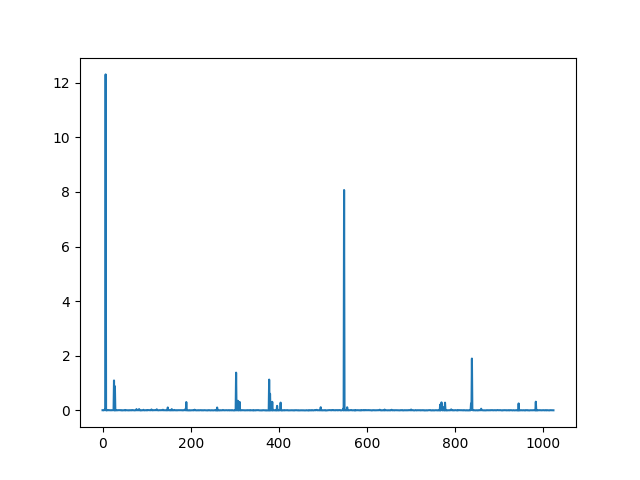
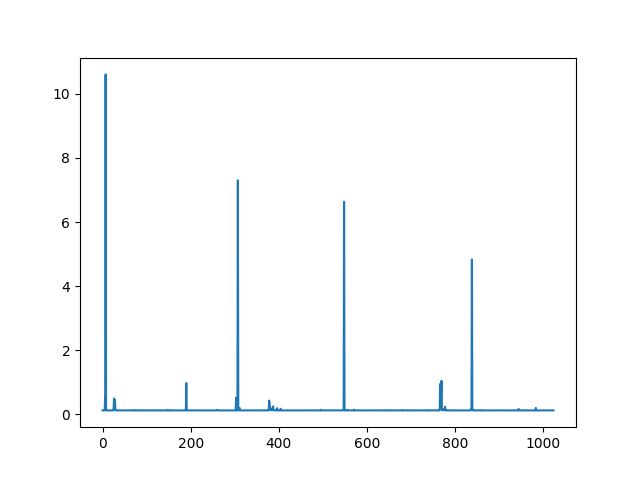
Preparing for indiv dp

diff --git a/ensemble.py b/ensemble.py
@@ -28,7 +28,7 @@ class Ensemble():
         self.instance_priv_loss = [0 for _ in range(self.num_ensemble // 2)]
         self.personalized_priv_loss = [[] for _ in range(self.num_ensemble // 2)]
         self.pairings = [(i, i+1) for i in range(0, self.num_ensemble, 2)]
-        self.target = target_mult * self.eps 
+        self.target = self.eps / self.q_budget
         self.lambda_history = []
 
         self.lora_ensemble = 0 
@@ -71,76 +71,52 @@ class Ensemble():
         N = len(mixed_dist) 
         for i, mix_dist in enumerate(mixed_dist):
             lambd_i = np.mean(self.lambdas[:i] + self.lambdas[i+1:]).item()
-            q = (p - mix_dist) * N / (N - 1)
+            q = (p - mix_dist) * N / (lambd * (N - 1)) * lambd_i
             r = p + (1 - lambd) * pub_pred
-            q = q / lambd 
-            q += pub_pred
+            q += (1 - lambd) * pub_pred
             self.instance_priv_loss[i] += max(Ensemble.renyiDiv(r, q, self.alpha),
                                               Ensemble.renyiDiv(q, r, self.alpha)
                                               )
 
-    def calc_indiv_priv_loss(self, p, mixed_dist, lambd, pub_pred, active_set):
+    def calc_indiv_priv_loss(self, p, mixed_dist, pub_pred):
         losses = []
         N = len(mixed_dist)
         for i, mix_dist in enumerate(mixed_dist):
-            lambd_i = np.mean(self.lambdas[:i] + self.lambdas[i+1:]).item()
-            val, ind = torch.max(mix_dist, 0)
-            '''
-            loss = (torch.log(1 + lambd * output[i][ind] /
-                                                        (self.num_ensemble *
-                                                        pub_pred[ind])
-                                                        )
-                                              )
-            if loss > 1:
-                print(f"Model {i}: {loss:.2f}")
-            self.personalized_priv_loss[i] += loss
-            '''
-            r = mix_dist + (1 - lambd) * pub_pred
-            q = copy.deepcopy((1 - lambd_i) * pub_pred)
-            r[ind] += (N-1) / N * lambd 
-            q[ind] += lambd_i
-            loss = max(Ensemble.renyiDiv(r, q, self.alpha).cpu(),
-                       Ensemble.renyiDiv(q, r, self.alpha).cpu()
-            )
-            self.personalized_priv_loss[i].append(loss)
+            loss = torch.log(torch.sum((1 + mix_dist/((N - 1)
+                                                      * pub_pred))**self.alpha
+                                                      * pub_pred))
+            self.personalized_priv_loss[i].append(loss.cpu())
             losses.append(loss)
         return losses
 
 
     def priv_pred(self, output_dists):
         #self.lambdas = [self.lambda_solver_bisection(output_dists[i].cpu(),
-        #                                             output_dists[j].cpu(),
-        #                                             output_dists[self.num_ensemble].cpu()
-        #                                             ) for i, j in self.pairings]
-        self.lambdas = [0.67 for _ in range(self.num_ensemble // 2)]
+        #                                            output_dists[j].cpu(),
+        #                                            output_dists[self.num_ensemble].cpu()
+        #                                            ) for i, j in self.pairings]
+        self.lambdas = [1/2 for _ in range(self.num_ensemble)]
         lambd = np.mean(np.array(self.lambdas)).item()
         self.lambda_history.append(lambd)
 
-        mixed_dists = [lambd * (output_dists[i] + output_dists[j]) / (self.num_ensemble) 
-                        for i, j in self.pairings]
-        ensemble_dist = sum(mixed_dists) 
+        #mixed_dists = [lambd * (output_dists[i] + output_dists[j]) / (self.num_ensemble) 
+        #                for i, j in self.pairings]
+        mixed_dists = [(self.lambdas[i] * output_dists[i] + 
+                        (1-self.lambdas[i]) * output_dists[self.num_ensemble]) / 
+                        self.num_ensemble
+                        for i, in range(self.num_ensemble)]
+        mixed_dists = torch.stack(mixed_dists)
+        #ensemble_dist = sum(mixed_dists) 
+        ensemble_dist = torch.mean(mixed_dists, dim=0) 
         pub_pred = output_dists[self.num_ensemble]
-        ensemble_dist += pub_pred 
+        #ensemble_dist += pub_pred 
         active_set = [i for i in range(self.num_ensemble // 2)]
         #self.calc_per_inst_priv_loss(ensemble_dist-pub_pred, mixed_dists, lambd, pub_pred)
-        losses = self.calc_indiv_priv_loss(ensemble_dist-pub_pred, mixed_dists,
-                                         lambd, pub_pred, active_set)
-
-        return ensemble_dist
-        #active_set = [i for i, loss in enumerate(losses) if loss < self.eps / (self.q_budget)]
-
-        if len(active_set) <= self.num_ensemble/2:
-            return output_dists[self.num_ensemble]
-        self.lambdas = np.array([0.5 for _ in range(self.num_ensemble)])
-        lambd = np.mean(self.lambdas).item()
-        mixed_dists = [lambd * output_dists[i] / len(active_set) if i in active_set else 0 for i in range(self.num_ensemble)] 
-        ensemble_dist = sum(mixed_dists)
-        pub_pred = (1 - lambd) * output_dists[self.num_ensemble]
-        ensemble_dist += pub_pred
-        losses = self.calc_indiv_priv_loss(ensemble_dist-pub_pred, mixed_dists,
-                                         lambd, pub_pred, active_set)
-        #if any([loss > 0.1 for loss in losses]):
-        #    print(losses)
+        self.calc_per_inst_priv_loss(ensemble_dist, mixed_dists, lambd, pub_pred)
+        #losses = self.calc_indiv_priv_loss(ensemble_dist-pub_pred, mixed_dists,
+        #                                 lambd, pub_pred, active_set)
+        losses = self.calc_indiv_priv_loss(ensemble_dist, mixed_dists, pub_pred)
+        
         return ensemble_dist
     
     def lambda_solver_bisection(self, p, p_prime, pub_model):
@@ -164,9 +140,14 @@ class Ensemble():
             r[r_ind] += lambd/2
             r_pub[r_ind] += lambd
 
-            eps = max(self.renyiDiv(q, q_pub, alpha=self.alpha),
-                      self.renyiDiv(r, r_pub, alpha=self.alpha)
-                      )
+            eps = 1 / (self.alpha - 1) * torch.log(torch.sum(
+                ((1 + lambd * (p + p_prime)/2 + (1 - lambd) * pub_model) / (
+                self.num_ensemble / 2 * pub_model))**self.alpha * pub_model
+            ))
+
+            #eps = max(self.renyiDiv(mix_star, p_mix, alpha=self.alpha),
+            #          self.renyiDiv(mix_star, p_prime_mix, alpha=self.alpha)
+            #          )
 
             #eps = max(self.renyiDiv(mix_star, p_mix, alpha=self.alpha),
             #          self.renyiDiv(mix_star, p_prime_mix, alpha=self.alpha)
@@ -189,10 +170,10 @@ class Ensemble():
         return output / self.num_ensemble
 
     def print_priv_losses(self):
-        #print("-----------------------------")
-        #print("Per-instance privacy loss")
-        #for i, loss in enumerate(self.instance_priv_loss):
-        #    print(f"Model {i}: {loss:.3f}")
+        print("-----------------------------")
+        print("Per-instance privacy loss")
+        for i, loss in enumerate(self.instance_priv_loss):
+            print(f"Model {i}: {loss:.3f}")
         print("-----------------------------")
         print("Individual privacy loss")
         for i, loss in enumerate(self.personalized_priv_loss):

diff --git a/training_ensemble.py b/training_ensemble.py
@@ -27,6 +27,7 @@ parser.add_argument("--block_size", type=int, default=512)
 parser.add_argument("--learning_rate", type=float, default=2e-4)
 parser.add_argument("--weight_decay", type=float, default=0.01)
 parser.add_argument("--batch_size", type=int, default=8)
+parser.add_argument("--training_type", type=str, default="sub-samp-and-agg")
 
 START = 0 
 
